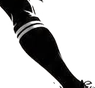
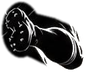
Pantalla de inicio: patea con el pie derecho (vista previa)
- La pierna animada ahora es la derecha (la que está cargada, con la suela a
  la vista): baja con un latigazo hasta la pelota y acompaña. La izquierda,
  apoyada, queda quieta.
- La animación espera a que el logo esté decodificado para no mostrar la
  pierna y la pelota antes que el dibujo.

Claude-Session: https://claude.ai/code/session_01WiwM9J9AiioqyFoBPHjeYK

diff --git a/assets/css/styles.css b/assets/css/styles.css
@@ -958,15 +958,15 @@ html.intro-on, html.intro-on body { overflow: hidden; }
 .intro-stage { position: relative; width: min(82vmin, 600px); aspect-ratio: 1; opacity: 0; transform-origin: 50% 37%; }
 .intro-stage img { display: block; width: 100%; height: 100%; object-fit: contain; user-select: none; -webkit-user-drag: none; -webkit-mask-image: radial-gradient(closest-side, #000 82%, transparent 100%); mask-image: radial-gradient(closest-side, #000 82%, transparent 100%); }
 .intro-ball { position: absolute; left: 63.7%; top: 61.1%; width: 5.2%; aspect-ratio: 60 / 84; transform: translate(-50%, -50%) rotate(30deg); }
-/* Pierna que patea: gira sobre la rodilla. */
-.intro-stage .intro-leg { position: absolute; left: 48.166%; top: 59.809%; width: 10.526%; height: auto; transform-origin: 18.2% 9.8%; -webkit-mask-image: none !important; mask-image: none !important; }
+/* Pierna derecha (la que patea): gira sobre la rodilla. La izquierda queda quieta. */
+.intro-stage .intro-leg { position: absolute; left: 46.252%; top: 52.871%; width: 10.048%; height: auto; transform-origin: 76.2% 72.8%; -webkit-mask-image: none; mask-image: none; }
 .intro-dust { position: absolute; left: 47%; top: 68%; width: 1.1%; aspect-ratio: 1; border-radius: 50%; background: #111; opacity: 0; }
 .intro-dust.d2 { left: 45.5%; top: 69.5%; width: .8%; }
 .intro-dust.d3 { left: 48.5%; top: 70%; width: .7%; }
 .intro-flash { position: absolute; left: 50%; top: 37%; width: 22%; aspect-ratio: 1; border-radius: 50%; transform: translate(-50%, -50%) scale(.2); background: radial-gradient(circle, rgba(255, 255, 255, .9), rgba(255, 255, 255, 0) 70%); opacity: 0; }
 
 #drop-intro.go .intro-stage { animation: intro-in .5s cubic-bezier(.2, .7, .3, 1) forwards, intro-kick .2s ease-out .74s, intro-enter .75s cubic-bezier(.6, 0, .4, 1) 1.72s forwards; }
-#drop-intro.go .intro-leg { animation: intro-leg .95s linear .3s forwards; }
+#drop-intro.go .intro-leg { animation: intro-leg .8s linear .3s forwards; }
 #drop-intro.go .intro-ball { animation: intro-ball .95s cubic-bezier(.25, .6, .35, 1) .74s forwards; }
 #drop-intro.go .intro-dust { animation: intro-dust .6s ease-out .74s forwards; }
 #drop-intro.go .intro-dust.d2 { animation-delay: .78s; }
@@ -974,13 +974,13 @@ html.intro-on, html.intro-on body { overflow: hidden; }
 #drop-intro.go .intro-flash { animation: intro-flash .55s ease-out 1.42s forwards; }
 #drop-intro.go { animation: intro-out .45s ease 2.12s forwards; }
 
-/* Carga hacia atrás, latigazo hacia la pelota y acompañamiento. */
+/* Carga un poco más, baja el pie con un latigazo hasta la pelota y acompaña. */
 @keyframes intro-leg {
   0%   { transform: rotate(0deg); animation-timing-function: cubic-bezier(.4, 0, .6, 1); }
-  38%  { transform: rotate(16deg); animation-timing-function: cubic-bezier(.55, 0, .9, .5); }
-  50%  { transform: rotate(-30deg); animation-timing-function: cubic-bezier(.2, .7, .4, 1); }
-  75%  { transform: rotate(-20deg); }
-  100% { transform: rotate(-12deg); }
+  38%  { transform: rotate(12deg); animation-timing-function: cubic-bezier(.6, 0, .85, .4); }
+  52%  { transform: rotate(-128deg); animation-timing-function: cubic-bezier(.2, .7, .4, 1); }
+  72%  { transform: rotate(-152deg) scale(.96); }
+  100% { transform: rotate(-146deg) scale(.95); }
 }
 
 @keyframes intro-in { from { opacity: 0; transform: scale(.94); } to { opacity: 1; transform: scale(1); } }

diff --git a/escudos.html b/escudos.html
@@ -19,8 +19,8 @@
   <link rel="preconnect" href="https://fonts.googleapis.com">
   <link rel="preconnect" href="https://fonts.gstatic.com" crossorigin>
   <link href="https://fonts.googleapis.com/css2?family=Archivo:wght@400;500;600;700;800;900&family=Source+Serif+4:ital,opsz,wght@0,8..60,400;0,8..60,600;1,8..60,400&display=swap" rel="stylesheet">
-  <link rel="stylesheet" href="/assets/css/brand.css?v=20261121">
-  <link rel="stylesheet" href="/assets/css/styles.css?v=20261121">
+  <link rel="stylesheet" href="/assets/css/brand.css?v=20261122">
+  <link rel="stylesheet" href="/assets/css/styles.css?v=20261122">
   <script async src="https://pagead2.googlesyndication.com/pagead/js/adsbygoogle.js?client=ca-pub-7081370352193016" crossorigin="anonymous"></script>
   <link rel="preload" as="image" href="/assets/img/drop-intro.jpg">
   <link rel="preload" as="image" href="/assets/img/drop-intro-leg.png">
@@ -30,7 +30,7 @@
   <!-- Pantalla de inicio: se muestra una vez por visita (assets/js/script.js la retira). -->
   <div id="drop-intro" aria-hidden="true">
     <div class="intro-stage">
-      <img src="/assets/img/drop-intro.jpg" alt="" width="900" height="900" decoding="async" onload="this.closest('#drop-intro').classList.add('go')" onerror="this.closest('#drop-intro').remove()">
+      <img src="/assets/img/drop-intro.jpg" alt="" width="900" height="900" decoding="async" onload="var d=this.closest('#drop-intro'),go=function(){d.classList.add('go')};(this.decode?this.decode():Promise.resolve()).then(go,go)" onerror="this.closest('#drop-intro').remove()">
       <img class="intro-leg" src="/assets/img/drop-intro-leg.png" alt="" decoding="async">
       <i class="intro-dust"></i><i class="intro-dust d2"></i><i class="intro-dust d3"></i>
       <svg class="intro-ball" viewBox="0 0 60 84" aria-hidden="true"><ellipse cx="30" cy="42" rx="27" ry="39" fill="#0d0f11" stroke="#f0ebe5" stroke-width="3"/><path d="M16 22 C 20 12, 34 8, 42 14" fill="none" stroke="#f0ebe5" stroke-width="2" stroke-linecap="round" opacity=".7"/></svg>
@@ -106,7 +106,7 @@
   </main>
 
   <div id="site-footer"></div>
-  <script src="/assets/js/script.js?v=20261121"></script>
-  <script src="/assets/js/games.js?v=20261121"></script>
+  <script src="/assets/js/script.js?v=20261122"></script>
+  <script src="/assets/js/games.js?v=20261122"></script>
 </body>
 </html>

diff --git a/index.html b/index.html
@@ -19,8 +19,8 @@
   <link rel="preconnect" href="https://fonts.googleapis.com">
   <link rel="preconnect" href="https://fonts.gstatic.com" crossorigin>
   <link href="https://fonts.googleapis.com/css2?family=Archivo:wght@400;500;600;700;800;900&family=Source+Serif+4:ital,opsz,wght@0,8..60,400;0,8..60,600;1,8..60,400&display=swap" rel="stylesheet">
-  <link rel="stylesheet" href="/assets/css/brand.css?v=20261121">
-  <link rel="stylesheet" href="/assets/css/styles.css?v=20261121">
+  <link rel="stylesheet" href="/assets/css/brand.css?v=20261122">
+  <link rel="stylesheet" href="/assets/css/styles.css?v=20261122">
   <script async src="https://pagead2.googlesyndication.com/pagead/js/adsbygoogle.js?client=ca-pub-7081370352193016" crossorigin="anonymous"></script>
   <link rel="preload" as="image" href="/assets/img/drop-intro.jpg">
   <link rel="preload" as="image" href="/assets/img/drop-intro-leg.png">
@@ -30,7 +30,7 @@
   <!-- Pantalla de inicio: se muestra una vez por visita (assets/js/script.js la retira). -->
   <div id="drop-intro" aria-hidden="true">
     <div class="intro-stage">
-      <img src="/assets/img/drop-intro.jpg" alt="" width="900" height="900" decoding="async" onload="this.closest('#drop-intro').classList.add('go')" onerror="this.closest('#drop-intro').remove()">
+      <img src="/assets/img/drop-intro.jpg" alt="" width="900" height="900" decoding="async" onload="var d=this.closest('#drop-intro'),go=function(){d.classList.add('go')};(this.decode?this.decode():Promise.resolve()).then(go,go)" onerror="this.closest('#drop-intro').remove()">
       <img class="intro-leg" src="/assets/img/drop-intro-leg.png" alt="" decoding="async">
       <i class="intro-dust"></i><i class="intro-dust d2"></i><i class="intro-dust d3"></i>
       <svg class="intro-ball" viewBox="0 0 60 84" aria-hidden="true"><ellipse cx="30" cy="42" rx="27" ry="39" fill="#0d0f11" stroke="#f0ebe5" stroke-width="3"/><path d="M16 22 C 20 12, 34 8, 42 14" fill="none" stroke="#f0ebe5" stroke-width="2" stroke-linecap="round" opacity=".7"/></svg>
@@ -174,7 +174,7 @@
   </main>
 
   <div id="site-footer"></div>
-  <script src="/assets/js/script.js?v=20261121"></script>
-  <script src="/assets/js/games.js?v=20261121"></script>
+  <script src="/assets/js/script.js?v=20261122"></script>
+  <script src="/assets/js/games.js?v=20261122"></script>
 </body>
 </html>

diff --git a/quiz.html b/quiz.html
@@ -19,8 +19,8 @@
   <link rel="preconnect" href="https://fonts.googleapis.com">
   <link rel="preconnect" href="https://fonts.gstatic.com" crossorigin>
   <link href="https://fonts.googleapis.com/css2?family=Archivo:wght@400;500;600;700;800;900&family=Source+Serif+4:ital,opsz,wght@0,8..60,400;0,8..60,600;1,8..60,400&display=swap" rel="stylesheet">
-  <link rel="stylesheet" href="/assets/css/brand.css?v=20261121">
-  <link rel="stylesheet" href="/assets/css/styles.css?v=20261121">
+  <link rel="stylesheet" href="/assets/css/brand.css?v=20261122">
+  <link rel="stylesheet" href="/assets/css/styles.css?v=20261122">
   <script async src="https://pagead2.googlesyndication.com/pagead/js/adsbygoogle.js?client=ca-pub-7081370352193016" crossorigin="anonymous"></script>
   <link rel="preload" as="image" href="/assets/img/drop-intro.jpg">
   <link rel="preload" as="image" href="/assets/img/drop-intro-leg.png">
@@ -30,7 +30,7 @@
   <!-- Pantalla de inicio: se muestra una vez por visita (assets/js/script.js la retira). -->
   <div id="drop-intro" aria-hidden="true">
     <div class="intro-stage">
-      <img src="/assets/img/drop-intro.jpg" alt="" width="900" height="900" decoding="async" onload="this.closest('#drop-intro').classList.add('go')" onerror="this.closest('#drop-intro').remove()">
+      <img src="/assets/img/drop-intro.jpg" alt="" width="900" height="900" decoding="async" onload="var d=this.closest('#drop-intro'),go=function(){d.classList.add('go')};(this.decode?this.decode():Promise.resolve()).then(go,go)" onerror="this.closest('#drop-intro').remove()">
       <img class="intro-leg" src="/assets/img/drop-intro-leg.png" alt="" decoding="async">
       <i class="intro-dust"></i><i class="intro-dust d2"></i><i class="intro-dust d3"></i>
       <svg class="intro-ball" viewBox="0 0 60 84" aria-hidden="true"><ellipse cx="30" cy="42" rx="27" ry="39" fill="#0d0f11" stroke="#f0ebe5" stroke-width="3"/><path d="M16 22 C 20 12, 34 8, 42 14" fill="none" stroke="#f0ebe5" stroke-width="2" stroke-linecap="round" opacity=".7"/></svg>
@@ -105,7 +105,7 @@
   </main>
 
   <div id="site-footer"></div>
-  <script src="/assets/js/script.js?v=20261121"></script>
-  <script src="/assets/js/games.js?v=20261121"></script>
+  <script src="/assets/js/script.js?v=20261122"></script>
+  <script src="/assets/js/games.js?v=20261122"></script>
 </body>
 </html>

diff --git a/rugby-xv.html b/rugby-xv.html
@@ -19,8 +19,8 @@
   <link rel="preconnect" href="https://fonts.googleapis.com">
   <link rel="preconnect" href="https://fonts.gstatic.com" crossorigin>
   <link href="https://fonts.googleapis.com/css2?family=Archivo:wght@400;500;600;700;800;900&family=Source+Serif+4:ital,opsz,wght@0,8..60,400;0,8..60,600;1,8..60,400&display=swap" rel="stylesheet">
-  <link rel="stylesheet" href="/assets/css/brand.css?v=20261121">
-  <link rel="stylesheet" href="/assets/css/styles.css?v=20261121">
+  <link rel="stylesheet" href="/assets/css/brand.css?v=20261122">
+  <link rel="stylesheet" href="/assets/css/styles.css?v=20261122">
   <script async src="https://pagead2.googlesyndication.com/pagead/js/adsbygoogle.js?client=ca-pub-7081370352193016" crossorigin="anonymous"></script>
   <link rel="preload" as="image" href="/assets/img/drop-intro.jpg">
   <link rel="preload" as="image" href="/assets/img/drop-intro-leg.png">
@@ -30,7 +30,7 @@
   <!-- Pantalla de inicio: se muestra una vez por visita (assets/js/script.js la retira). -->
   <div id="drop-intro" aria-hidden="true">
     <div class="intro-stage">
-      <img src="/assets/img/drop-intro.jpg" alt="" width="900" height="900" decoding="async" onload="this.closest('#drop-intro').classList.add('go')" onerror="this.closest('#drop-intro').remove()">
+      <img src="/assets/img/drop-intro.jpg" alt="" width="900" height="900" decoding="async" onload="var d=this.closest('#drop-intro'),go=function(){d.classList.add('go')};(this.decode?this.decode():Promise.resolve()).then(go,go)" onerror="this.closest('#drop-intro').remove()">
       <img class="intro-leg" src="/assets/img/drop-intro-leg.png" alt="" decoding="async">
       <i class="intro-dust"></i><i class="intro-dust d2"></i><i class="intro-dust d3"></i>
       <svg class="intro-ball" viewBox="0 0 60 84" aria-hidden="true"><ellipse cx="30" cy="42" rx="27" ry="39" fill="#0d0f11" stroke="#f0ebe5" stroke-width="3"/><path d="M16 22 C 20 12, 34 8, 42 14" fill="none" stroke="#f0ebe5" stroke-width="2" stroke-linecap="round" opacity=".7"/></svg>
@@ -110,7 +110,7 @@
   </main>
 
   <div id="site-footer"></div>
-  <script src="/assets/js/script.js?v=20261121"></script>
-  <script src="/assets/js/games.js?v=20261121"></script>
+  <script src="/assets/js/script.js?v=20261122"></script>
+  <script src="/assets/js/games.js?v=20261122"></script>
 </body>
 </html>

diff --git a/urba-top-14.html b/urba-top-14.html
@@ -19,8 +19,8 @@
   <link rel="preconnect" href="https://fonts.googleapis.com">
   <link rel="preconnect" href="https://fonts.gstatic.com" crossorigin>
   <link href="https://fonts.googleapis.com/css2?family=Archivo:wght@400;500;600;700;800;900&family=Source+Serif+4:ital,opsz,wght@0,8..60,400;0,8..60,600;1,8..60,400&display=swap" rel="stylesheet">
-  <link rel="stylesheet" href="/assets/css/brand.css?v=20261121">
-  <link rel="stylesheet" href="/assets/css/styles.css?v=20261121">
+  <link rel="stylesheet" href="/assets/css/brand.css?v=20261122">
+  <link rel="stylesheet" href="/assets/css/styles.css?v=20261122">
   <script async src="https://pagead2.googlesyndication.com/pagead/js/adsbygoogle.js?client=ca-pub-7081370352193016" crossorigin="anonymous"></script>
   <link rel="preload" as="image" href="/assets/img/drop-intro.jpg">
   <link rel="preload" as="image" href="/assets/img/drop-intro-leg.png">
@@ -30,7 +30,7 @@
   <!-- Pantalla de inicio: se muestra una vez por visita (assets/js/script.js la retira). -->
   <div id="drop-intro" aria-hidden="true">
     <div class="intro-stage">
-      <img src="/assets/img/drop-intro.jpg" alt="" width="900" height="900" decoding="async" onload="this.closest('#drop-intro').classList.add('go')" onerror="this.closest('#drop-intro').remove()">
+      <img src="/assets/img/drop-intro.jpg" alt="" width="900" height="900" decoding="async" onload="var d=this.closest('#drop-intro'),go=function(){d.classList.add('go')};(this.decode?this.decode():Promise.resolve()).then(go,go)" onerror="this.closest('#drop-intro').remove()">
       <img class="intro-leg" src="/assets/img/drop-intro-leg.png" alt="" decoding="async">
       <i class="intro-dust"></i><i class="intro-dust d2"></i><i class="intro-dust d3"></i>
       <svg class="intro-ball" viewBox="0 0 60 84" aria-hidden="true"><ellipse cx="30" cy="42" rx="27" ry="39" fill="#0d0f11" stroke="#f0ebe5" stroke-width="3"/><path d="M16 22 C 20 12, 34 8, 42 14" fill="none" stroke="#f0ebe5" stroke-width="2" stroke-linecap="round" opacity=".7"/></svg>
@@ -105,7 +105,7 @@
   </main>
 
   <div id="site-footer"></div>
-  <script src="/assets/js/script.js?v=20261121"></script>
-  <script src="/assets/js/games.js?v=20261121"></script>
+  <script src="/assets/js/script.js?v=20261122"></script>
+  <script src="/assets/js/games.js?v=20261122"></script>
 </body>
 </html>

diff --git a/wordle.html b/wordle.html
@@ -19,8 +19,8 @@
   <link rel="preconnect" href="https://fonts.googleapis.com">
   <link rel="preconnect" href="https://fonts.gstatic.com" crossorigin>
   <link href="https://fonts.googleapis.com/css2?family=Archivo:wght@400;500;600;700;800;900&family=Source+Serif+4:ital,opsz,wght@0,8..60,400;0,8..60,600;1,8..60,400&display=swap" rel="stylesheet">
-  <link rel="stylesheet" href="/assets/css/brand.css?v=20261121">
-  <link rel="stylesheet" href="/assets/css/styles.css?v=20261121">
+  <link rel="stylesheet" href="/assets/css/brand.css?v=20261122">
+  <link rel="stylesheet" href="/assets/css/styles.css?v=20261122">
   <script async src="https://pagead2.googlesyndication.com/pagead/js/adsbygoogle.js?client=ca-pub-7081370352193016" crossorigin="anonymous"></script>
   <link rel="preload" as="image" href="/assets/img/drop-intro.jpg">
   <link rel="preload" as="image" href="/assets/img/drop-intro-leg.png">
@@ -30,7 +30,7 @@
   <!-- Pantalla de inicio: se muestra una vez por visita (assets/js/script.js la retira). -->
   <div id="drop-intro" aria-hidden="true">
     <div class="intro-stage">
-      <img src="/assets/img/drop-intro.jpg" alt="" width="900" height="900" decoding="async" onload="this.closest('#drop-intro').classList.add('go')" onerror="this.closest('#drop-intro').remove()">
+      <img src="/assets/img/drop-intro.jpg" alt="" width="900" height="900" decoding="async" onload="var d=this.closest('#drop-intro'),go=function(){d.classList.add('go')};(this.decode?this.decode():Promise.resolve()).then(go,go)" onerror="this.closest('#drop-intro').remove()">
       <img class="intro-leg" src="/assets/img/drop-intro-leg.png" alt="" decoding="async">
       <i class="intro-dust"></i><i class="intro-dust d2"></i><i class="intro-dust d3"></i>
       <svg class="intro-ball" viewBox="0 0 60 84" aria-hidden="true"><ellipse cx="30" cy="42" rx="27" ry="39" fill="#0d0f11" stroke="#f0ebe5" stroke-width="3"/><path d="M16 22 C 20 12, 34 8, 42 14" fill="none" stroke="#f0ebe5" stroke-width="2" stroke-linecap="round" opacity=".7"/></svg>
@@ -110,7 +110,7 @@
   </main>
 
   <div id="site-footer"></div>
-  <script src="/assets/js/script.js?v=20261121"></script>
-  <script src="/assets/js/games.js?v=20261121"></script>
+  <script src="/assets/js/script.js?v=20261122"></script>
+  <script src="/assets/js/games.js?v=20261122"></script>
 </body>
 </html>

diff --git a/404.html b/404.html
@@ -20,8 +20,8 @@
   <link rel="preconnect" href="https://fonts.googleapis.com">
   <link rel="preconnect" href="https://fonts.gstatic.com" crossorigin>
   <link href="https://fonts.googleapis.com/css2?family=Archivo:wght@400;500;600;700;800;900&family=Source+Serif+4:ital,opsz,wght@0,8..60,400;0,8..60,600;1,8..60,400&display=swap" rel="stylesheet">
-  <link rel="stylesheet" href="/assets/css/brand.css?v=20261121">
-  <link rel="stylesheet" href="/assets/css/styles.css?v=20261121">
+  <link rel="stylesheet" href="/assets/css/brand.css?v=20261122">
+  <link rel="stylesheet" href="/assets/css/styles.css?v=20261122">
   <script async src="https://pagead2.googlesyndication.com/pagead/js/adsbygoogle.js?client=ca-pub-7081370352193016" crossorigin="anonymous"></script>
   <link rel="preload" as="image" href="/assets/img/drop-intro.jpg">
   <link rel="preload" as="image" href="/assets/img/drop-intro-leg.png">
@@ -31,7 +31,7 @@
   <!-- Pantalla de inicio: se muestra una vez por visita (assets/js/script.js la retira). -->
   <div id="drop-intro" aria-hidden="true">
     <div class="intro-stage">
-      <img src="/assets/img/drop-intro.jpg" alt="" width="900" height="900" decoding="async" onload="this.closest('#drop-intro').classList.add('go')" onerror="this.closest('#drop-intro').remove()">
+      <img src="/assets/img/drop-intro.jpg" alt="" width="900" height="900" decoding="async" onload="var d=this.closest('#drop-intro'),go=function(){d.classList.add('go')};(this.decode?this.decode():Promise.resolve()).then(go,go)" onerror="this.closest('#drop-intro').remove()">
       <img class="intro-leg" src="/assets/img/drop-intro-leg.png" alt="" decoding="async">
       <i class="intro-dust"></i><i class="intro-dust d2"></i><i class="intro-dust d3"></i>
       <svg class="intro-ball" viewBox="0 0 60 84" aria-hidden="true"><ellipse cx="30" cy="42" rx="27" ry="39" fill="#0d0f11" stroke="#f0ebe5" stroke-width="3"/><path d="M16 22 C 20 12, 34 8, 42 14" fill="none" stroke="#f0ebe5" stroke-width="2" stroke-linecap="round" opacity=".7"/></svg>
@@ -88,7 +88,7 @@
   </main>
 
   <div id="site-footer"></div>
-  <script src="/assets/js/script.js?v=20261121"></script>
-  <script src="/assets/js/games.js?v=20261121"></script>
+  <script src="/assets/js/script.js?v=20261122"></script>
+  <script src="/assets/js/games.js?v=20261122"></script>
 </body>
 </html>

diff --git a/calendario.html b/calendario.html
@@ -19,8 +19,8 @@
   <link rel="preconnect" href="https://fonts.googleapis.com">
   <link rel="preconnect" href="https://fonts.gstatic.com" crossorigin>
   <link href="https://fonts.googleapis.com/css2?family=Archivo:wght@400;500;600;700;800;900&family=Source+Serif+4:ital,opsz,wght@0,8..60,400;0,8..60,600;1,8..60,400&display=swap" rel="stylesheet">
-  <link rel="stylesheet" href="/assets/css/brand.css?v=20261121">
-  <link rel="stylesheet" href="/assets/css/styles.css?v=20261121">
+  <link rel="stylesheet" href="/assets/css/brand.css?v=20261122">
+  <link rel="stylesheet" href="/assets/css/styles.css?v=20261122">
   <script async src="https://pagead2.googlesyndication.com/pagead/js/adsbygoogle.js?client=ca-pub-7081370352193016" crossorigin="anonymous"></script>
   <link rel="preload" as="image" href="/assets/img/drop-intro.jpg">
   <link rel="preload" as="image" href="/assets/img/drop-intro-leg.png">
@@ -30,7 +30,7 @@
   <!-- Pantalla de inicio: se muestra una vez por visita (assets/js/script.js la retira). -->
   <div id="drop-intro" aria-hidden="true">
     <div class="intro-stage">
-      <img src="/assets/img/drop-intro.jpg" alt="" width="900" height="900" decoding="async" onload="this.closest('#drop-intro').classList.add('go')" onerror="this.closest('#drop-intro').remove()">
+      <img src="/assets/img/drop-intro.jpg" alt="" width="900" height="900" decoding="async" onload="var d=this.closest('#drop-intro'),go=function(){d.classList.add('go')};(this.decode?this.decode():Promise.resolve()).then(go,go)" onerror="this.closest('#drop-intro').remove()">
       <img class="intro-leg" src="/assets/img/drop-intro-leg.png" alt="" decoding="async">
       <i class="intro-dust"></i><i class="intro-dust d2"></i><i class="intro-dust d3"></i>
       <svg class="intro-ball" viewBox="0 0 60 84" aria-hidden="true"><ellipse cx="30" cy="42" rx="27" ry="39" fill="#0d0f11" stroke="#f0ebe5" stroke-width="3"/><path d="M16 22 C 20 12, 34 8, 42 14" fill="none" stroke="#f0ebe5" stroke-width="2" stroke-linecap="round" opacity=".7"/></svg>
@@ -81,7 +81,7 @@
   </main>
 
   <div id="site-footer"></div>
-  <script src="/assets/js/script.js?v=20261121"></script>
-  <script src="/assets/js/games.js?v=20261121"></script>
+  <script src="/assets/js/script.js?v=20261122"></script>
+  <script src="/assets/js/games.js?v=20261122"></script>
 </body>
 </html>

diff --git a/contacto.html b/contacto.html
@@ -19,8 +19,8 @@
   <link rel="preconnect" href="https://fonts.googleapis.com">
   <link rel="preconnect" href="https://fonts.gstatic.com" crossorigin>
   <link href="https://fonts.googleapis.com/css2?family=Archivo:wght@400;500;600;700;800;900&family=Source+Serif+4:ital,opsz,wght@0,8..60,400;0,8..60,600;1,8..60,400&display=swap" rel="stylesheet">
-  <link rel="stylesheet" href="/assets/css/brand.css?v=20261121">
-  <link rel="stylesheet" href="/assets/css/styles.css?v=20261121">
+  <link rel="stylesheet" href="/assets/css/brand.css?v=20261122">
+  <link rel="stylesheet" href="/assets/css/styles.css?v=20261122">
   <script async src="https://pagead2.googlesyndication.com/pagead/js/adsbygoogle.js?client=ca-pub-7081370352193016" crossorigin="anonymous"></script>
   <link rel="preload" as="image" href="/assets/img/drop-intro.jpg">
   <link rel="preload" as="image" href="/assets/img/drop-intro-leg.png">
@@ -30,7 +30,7 @@
   <!-- Pantalla de inicio: se muestra una vez por visita (assets/js/script.js la retira). -->
   <div id="drop-intro" aria-hidden="true">
     <div class="intro-stage">
-      <img src="/assets/img/drop-intro.jpg" alt="" width="900" height="900" decoding="async" onload="this.closest('#drop-intro').classList.add('go')" onerror="this.closest('#drop-intro').remove()">
+      <img src="/assets/img/drop-intro.jpg" alt="" width="900" height="900" decoding="async" onload="var d=this.closest('#drop-intro'),go=function(){d.classList.add('go')};(this.decode?this.decode():Promise.resolve()).then(go,go)" onerror="this.closest('#drop-intro').remove()">
       <img class="intro-leg" src="/assets/img/drop-intro-leg.png" alt="" decoding="async">
       <i class="intro-dust"></i><i class="intro-dust d2"></i><i class="intro-dust d3"></i>
       <svg class="intro-ball" viewBox="0 0 60 84" aria-hidden="true"><ellipse cx="30" cy="42" rx="27" ry="39" fill="#0d0f11" stroke="#f0ebe5" stroke-width="3"/><path d="M16 22 C 20 12, 34 8, 42 14" fill="none" stroke="#f0ebe5" stroke-width="2" stroke-linecap="round" opacity=".7"/></svg>
@@ -73,7 +73,7 @@
   </main>
 
   <div id="site-footer"></div>
-  <script src="/assets/js/script.js?v=20261121"></script>
-  <script src="/assets/js/games.js?v=20261121"></script>
+  <script src="/assets/js/script.js?v=20261122"></script>
+  <script src="/assets/js/games.js?v=20261122"></script>
 </body>
 </html>

diff --git a/admin.html b/admin.html
@@ -11,7 +11,7 @@
   <link href="https://fonts.googleapis.com/css2?family=Archivo:wght@400;500;600;700;800;900&display=swap" rel="stylesheet">
   <link rel="stylesheet" href="/assets/css/admin.css?v=20261118">
   <!-- brand.css va DESPUÉS: es la identidad compartida con la web pública y manda sobre los colores del panel. -->
-  <link rel="stylesheet" href="/assets/css/brand.css?v=20261121">
+  <link rel="stylesheet" href="/assets/css/brand.css?v=20261122">
 </head>
 <body>
 <div id="login-screen" class="login-screen">

diff --git a/assets/js/script.js b/assets/js/script.js
@@ -1750,7 +1750,10 @@ function setupIntro() {
   if (root.classList.contains("intro-seen")) { intro.remove(); return; }
 
   const img = intro.querySelector("img");
-  if (img && img.complete && img.naturalWidth) intro.classList.add("go");
+  if (img && img.complete && img.naturalWidth) {
+    const go = () => intro.classList.add("go");
+    (img.decode ? img.decode() : Promise.resolve()).then(go, go);
+  }
 
   let done = false;
   const finish = () => {
